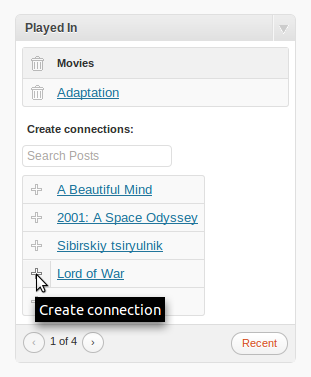
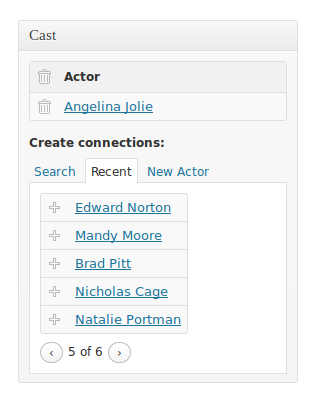
git-svn-id: https://plugins.svn.wordpress.org/posts-to-posts/trunk@413705 b8457f37-d9ea-0310-8a92-e5e31aec5664

diff --git a/tests.php b/tests.php
@@ -21,6 +21,7 @@ class P2P_Test {
 				'name' => 'Actors',
 				'singular_name' => 'Actor',
 				'search_items' => 'Search Actors',
+				'new_item' => 'New Actor',
 				'not_found' => 'No actors found.'
 			),
 			'has_archive' => 'actors',
@@ -32,6 +33,7 @@ class P2P_Test {
 				'name' => 'Movies',
 				'singular_name' => 'Movie',
 				'search_items' => 'Search movies',
+				'new_item' => 'New Movie',
 				'not_found' => 'No movies found.',
 			)
 		) );
